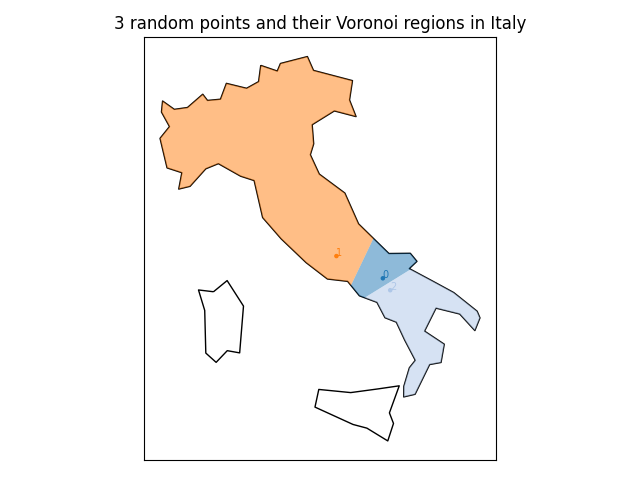
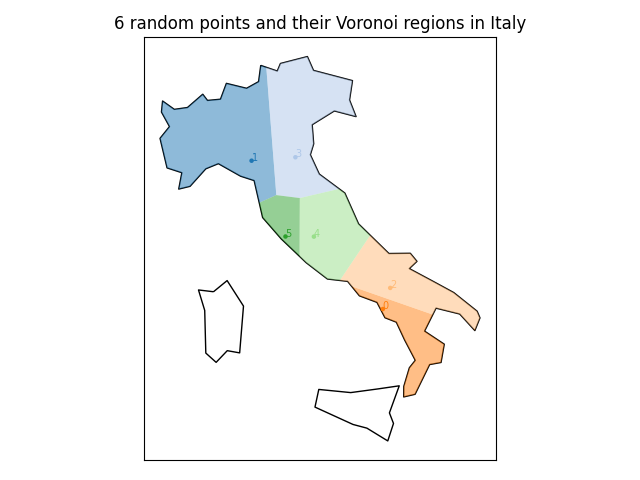
fixed problem with overlapping Voronoi regions

Changed region(s): [[0.25, 0.125, 0.75, 0.8438], [0.4062, 0.0312, 0.8125, 0.0625], [0.1562, 0.0312, 0.375, 0.0625]]

diff --git a/geovoronoi/_voronoi.py b/geovoronoi/_voronoi.py
@@ -60,19 +60,12 @@ def voronoi_regions_from_coords(coords, geo_shape):
 
     logger.info('running Voronoi tesselation for %d points' % len(coords))
 
-    if not isinstance(coords, np.ndarray):
-        coords = points_to_coords(coords)
+    if isinstance(coords, np.ndarray):
+        pts = coords_to_points(coords)
+    else:
+        pts = coords
+        coords = points_to_coords(pts)
 
-    vor = Voronoi(coords)
-    logger.info('generated %d Voronoi regions' % (len(vor.regions)-1))
-
-    logger.info('generating Voronoi polygon regions')
-    region_polys, region_pts = region_polygons_from_voronoi(vor, geo_shape, return_point_assignments=True)
-
-    return region_polys, region_pts
-
-
-def region_polygons_from_voronoi(vor, geo_shape, return_point_assignments=False):
     if isinstance(geo_shape, Polygon):
         geoms = [geo_shape]
     elif isinstance(geo_shape, MultiPolygon):
@@ -80,33 +73,112 @@ def region_polygons_from_voronoi(vor, geo_shape, return_point_assignments=False)
     else:
         raise ValueError('`geo_shape` must be a Polygon or MultiPolygon')
 
+    pts_indices = set(range(len(pts)))
+    region_polys = {}
+    region_pts = {}
+    for i_geom, geom in enumerate(geoms):
+        pts_in_geom = [i for i in pts_indices if geom.contains(pts[i])]
+        logger.info('%d of %d points in geometry #%d of %d' % (len(pts_in_geom), len(pts), i_geom + 1, len(geoms)))
+        if not pts_in_geom:
+            continue
+
+        pts_indices.difference_update(pts_in_geom)
+
+        logger.info('generating Voronoi regions')
+        vor = Voronoi(coords[pts_in_geom])
+
+        logger.info('generating Voronoi region polygons')
+        geom_polys, geom_pts = region_polygons_from_voronoi(vor, geom, return_point_assignments=True)
+
+        region_ids = range(len(region_polys), len(region_polys) + len(geom_polys))
+        region_ids_mapping = dict(zip(region_ids, geom_polys.keys()))
+        region_polys.update(dict(zip(region_ids, geom_polys.values())))
+
+        pt_ids_mapping = dict(zip(range(len(pts_in_geom)), pts_in_geom))
+        region_pts.update(
+            {reg_id: [pt_ids_mapping[pt_id] for pt_id in geom_pts[old_reg_id]]
+                     for reg_id, old_reg_id in region_ids_mapping.items()}
+        )
+
+    return region_polys, region_pts
+
+
+# def region_polygons_from_voronoi(vor, geom, return_point_assignments=False):
+#     center = np.array(MultiPoint(vor.points).convex_hull.centroid)
+#
+#     geom_bb = box(*geom.bounds)
+#     region_linestrings = defaultdict(list)
+#     region_pts = defaultdict(list)
+#
+#     for i_pt, i_region in enumerate(vor.point_region):
+#         region_pts[i_region].append(i_pt)
+#
+#     for pointidx, simplex in zip(vor.ridge_points, vor.ridge_vertices):
+#         simplex = np.asarray(simplex)
+#         for side in (0, 1):
+#             if side == 1:
+#                 pointidx = pointidx[::-1]
+#
+#             i_pt = pointidx[0]
+#             i_reg = vor.point_region[i_pt]
+#
+#             if np.all(simplex >= 0):       # full finite polygon line
+#                 region_linestrings[i_reg].append(LineString(vor.vertices[simplex]))
+#             else:   # "loose ridge": contains infinite Voronoi vertex
+#                 i = simplex[simplex >= 0][0]  # finite end Voronoi vertex
+#
+#                 t = vor.points[pointidx[1]] - vor.points[pointidx[0]]  # tangent
+#                 t /= np.linalg.norm(t)
+#                 n = np.array([-t[1], t[0]])  # normal
+#
+#                 midpoint = vor.points[pointidx].mean(axis=0)
+#                 direction = np.sign(np.dot(midpoint - center, n)) * n
+#                 #direction = direction / np.linalg.norm(direction)   # to unit vector
+#
+#                 isects = []
+#                 for i_ext_coord in range(len(geom_bb.exterior.coords) - 1):
+#                     isect = line_segment_intersection(midpoint, direction,
+#                                                       np.array(geom_bb.exterior.coords[i_ext_coord]),
+#                                                       np.array(geom_bb.exterior.coords[i_ext_coord + 1]))
+#                     if isect is not None:
+#                         isects.append(isect)
+#
+#                 assert isects, 'far point must intersect with surrounding geometry from `geo_shape`'
+#
+#                 if len(isects) == 1:
+#                     far_point = isects[0]
+#                 else:
+#                     closest_isect_idx = np.argmin(np.linalg.norm(midpoint - isects, axis=1))
+#                     far_point = isects[closest_isect_idx]
+#
+#                 region_linestrings[i_reg].append(LineString(np.vstack((vor.vertices[i], far_point))))
+#
+#     region_polys = {}
+#     for i_reg, linestrings in region_linestrings.items():
+#         p = list(polygonize(linestrings))
+#         # TODO: check p
+#         region_polys[i_reg] = p[0] if p else None
+#
+#     if return_point_assignments:
+#         return region_polys, region_pts
+#     else:
+#         return region_polys
+
+
+def region_polygons_from_voronoi(vor, geom, return_point_assignments=False):
+    geom_bb = box(*geom.bounds)
     center = np.array(MultiPoint(vor.points).convex_hull.centroid)
     ridge_vert = np.array(vor.ridge_vertices)
 
     region_pts = defaultdict(list)
     region_neighbor_pts = defaultdict(set)
     region_polys = {}
-    region_surroundings = {}
-    surroundings_region = defaultdict(list)
     for i_reg, reg_vert in enumerate(vor.regions):
-        pt_indices = np.where(vor.point_region == i_reg)[0]
+        pt_indices, = np.nonzero(vor.point_region == i_reg)
         if len(pt_indices) == 0:  # skip regions w/o points in them
             continue
 
         region_pts[i_reg].extend(pt_indices.tolist())
-
-        geom_indices = {i_g for pt in vor.points[pt_indices] for i_g, g in enumerate(geoms) if g.contains(asPoint(pt))}
-        if len(geom_indices) == 0:
-            raise RuntimeError('no sub-geometry of `geo_shape` contains a point of %s' % str(vor.points[pt_indices]))
-        elif len(geom_indices) > 1:
-            raise RuntimeError('more than one sub-geometry of `geo_shape` contains a point of %s'
-                               % str(vor.points[pt_indices]))
-
-        geom_idx = geom_indices.pop()
-        geom = geoms[geom_idx]
-        geom_bb = box(*geom.bounds)
-        surroundings_region[geom_idx].append(i_reg)
-        region_surroundings[i_reg] = geom_idx
 
         if np.all(np.array(reg_vert) >= 0):  # fully finite-bounded region
             p = Polygon(vor.vertices[reg_vert])
@@ -128,32 +200,37 @@ def region_polygons_from_voronoi(vor, geo_shape, return_point_assignments=False)
                         i = simplex[simplex >= 0][0]  # finite end Voronoi vertex
                         finite_pt = vor.vertices[i]
 
-                        if ridge_pt_side == 1:
-                            pointidx = pointidx[::-1]
+                        if geom_bb.contains(asPoint(finite_pt)):
+                            # if ridge_pt_side == 1:
+                            #     pointidx = pointidx[::-1]
 
-                        t = vor.points[pointidx[1]] - vor.points[pointidx[0]]  # tangent
-                        t /= np.linalg.norm(t)
-                        n = np.array([-t[1], t[0]])  # normal
+                            t = vor.points[pointidx[1]] - vor.points[pointidx[0]]  # tangent
+                            t /= np.linalg.norm(t)
+                            n = np.array([-t[1], t[0]])  # normal
 
-                        midpoint = vor.points[pointidx].mean(axis=0)
-                        direction = np.sign(np.dot(midpoint - center, n)) * n
-                        direction = direction / np.linalg.norm(direction)  # to unit vector
+                            midpoint = vor.points[pointidx].mean(axis=0)
+                            direction = np.sign(np.dot(midpoint - center, n)) * n
+                            # direction = direction / np.linalg.norm(direction)  # to unit vector
 
-                        isects = []
-                        for i_ext_coord in range(len(geom_bb.exterior.coords) - 1):
-                            isect = line_segment_intersection(midpoint, direction,
-                                                              np.array(geom_bb.exterior.coords[i_ext_coord]),
-                                                              np.array(geom_bb.exterior.coords[i_ext_coord+1]))
-                            if isect is not None:
-                                isects.append(isect)
+                            isects = []
+                            for i_ext_coord in range(len(geom_bb.exterior.coords) - 1):
+                                isect = line_segment_intersection(midpoint, direction,
+                                                                  np.array(geom_bb.exterior.coords[i_ext_coord]),
+                                                                  np.array(geom_bb.exterior.coords[i_ext_coord+1]))
+                                if isect is not None:
+                                    isects.append(isect)
 
-                        assert isects, 'far point must intersect with surrounding geometry from `geo_shape`'
+                            assert isects, 'far point must intersect with surrounding geometry from `geo_shape`'
 
-                        closest_isect_idx = np.argmin(np.linalg.norm(midpoint - isects, axis=1))
-                        p_vertices.extend([finite_pt, isects[closest_isect_idx]])
+                            closest_isect_idx = np.argmin(np.linalg.norm(midpoint - isects, axis=1))
+                            p_vertices.extend([finite_pt, isects[closest_isect_idx]])
+                        else:
+                            p_vertices.append(finite_pt)
 
-            p = MultiPoint(p_vertices).convex_hull  # Voronoi regions are convex
+            #p = MultiPoint(p_vertices).convex_hull  # Voronoi regions are convex
+            p = MultiPoint(p_vertices + [vor.points[i_pt]]).convex_hull  # Voronoi regions are convex
 
+        assert isinstance(p, Polygon), 'generated convex hull is not a polygon'
         assert p.is_valid and p.is_simple and not p.is_empty, 'generated polygon is not valid, not simple or empty'
 
         if not geom.contains(p):
@@ -164,20 +241,17 @@ def region_polygons_from_voronoi(vor, geo_shape, return_point_assignments=False)
 
         region_polys[i_reg] = p
 
-    pts_region = get_points_to_poly_assignments(region_pts)
-
     for i_reg, p in region_polys.items():
-        surround_geom_idx = region_surroundings[i_reg]
-        union_other_regions = cascaded_union([region_polys[i_other]
-                                              for i_other in surroundings_region[surround_geom_idx]
+        union_other_regions = cascaded_union([other_poly
+                                              for i_other, other_poly in region_polys.items()
                                               if i_reg != i_other])
-        diff = geoms[surround_geom_idx].difference(union_other_regions)
+        diff = geom.difference(union_other_regions)
         if isinstance(diff, MultiPolygon):
             diff = diff.geoms
         else:
             diff = [diff]
 
-        neighbor_regions = [pts_region[pt] for pt in region_neighbor_pts[i_reg]]
+        neighbor_regions = [vor.point_region[pt] for pt in region_neighbor_pts[i_reg]]
         add = []
         for diff_part in diff:
             if diff_part.is_valid and not diff_part.is_empty:

diff --git a/examples/toyexample.py b/examples/toyexample.py
@@ -8,11 +8,11 @@ from geovoronoi.plotting import subplot_for_map, plot_voronoi_polys_with_points_
 
 #%%
 
-# points = np.array([[0, 0], [0, 1], [0, 2],
-#                    [1, 0], [1, 1], [1, 2],
-#                    [2, 0], [2, 1], [2, 2]])
+points = np.array([[0, 0], [0, 1], [0, 2],
+                   [1, 0], [1, 1], [1, 2],
+                   [2, 0], [2, 1], [2, 2]])
 
-points = np.array([[1, 1], [2, 0], [0, 2], [0, 0]])
+#points = np.array([[1, 1], [1.1, 0.9], [1.15, 0.8], [2.5, 0]])
 
 shape = Polygon([[-1, -1], [3, -1], [3, 3], [-1, 3]])
 
@@ -25,7 +25,7 @@ print(region_pts)
 
 #%%
 
-fig, ax = subplot_for_map()
+fig, ax = subplot_for_map(show_x_axis=True, show_y_axis=True)
 
 plot_voronoi_polys_with_points_in_area(ax, shape, region_polys, points, region_pts,
                                        point_labels=list(map(str, range(len(points)))),

diff --git a/geovoronoi/plotting.py b/geovoronoi/plotting.py
@@ -90,6 +90,7 @@ def plot_voronoi_polys(ax, poly_shapes, color=None, edgecolor=None, labels=None,
                              % (n_labels, n_features))
 
         for (i, p), lbl in zip(poly_shapes.items(), labels):
+            if not p: continue
             tx, ty = p.centroid.coords[0]
             ax.text(tx, ty, lbl, fontsize=label_fontsize, color=_color_for_labels(label_color, color, i))
 
@@ -265,7 +266,7 @@ def _plot_polygon_collection_with_color(ax, geoms, color=None, **kwargs):
     if 'markersize' in kwargs:
         del kwargs['markersize']
 
-    collection = PatchCollection([PolygonPatch(poly) for poly in geoms],
+    collection = PatchCollection([PolygonPatch(poly) for poly in geoms if poly],
                                  color=color_values, **kwargs)
 
     ax.add_collection(collection, autolim=True)

diff --git a/examples/random_points_across_italy.py b/examples/random_points_across_italy.py
@@ -26,7 +26,7 @@ geovoronoi_log.propagate = True
 
 #%%
 
-N_POINTS = 5
+N_POINTS = 10
 COUNTRY = 'Italy'
 
 np.random.seed(123)
